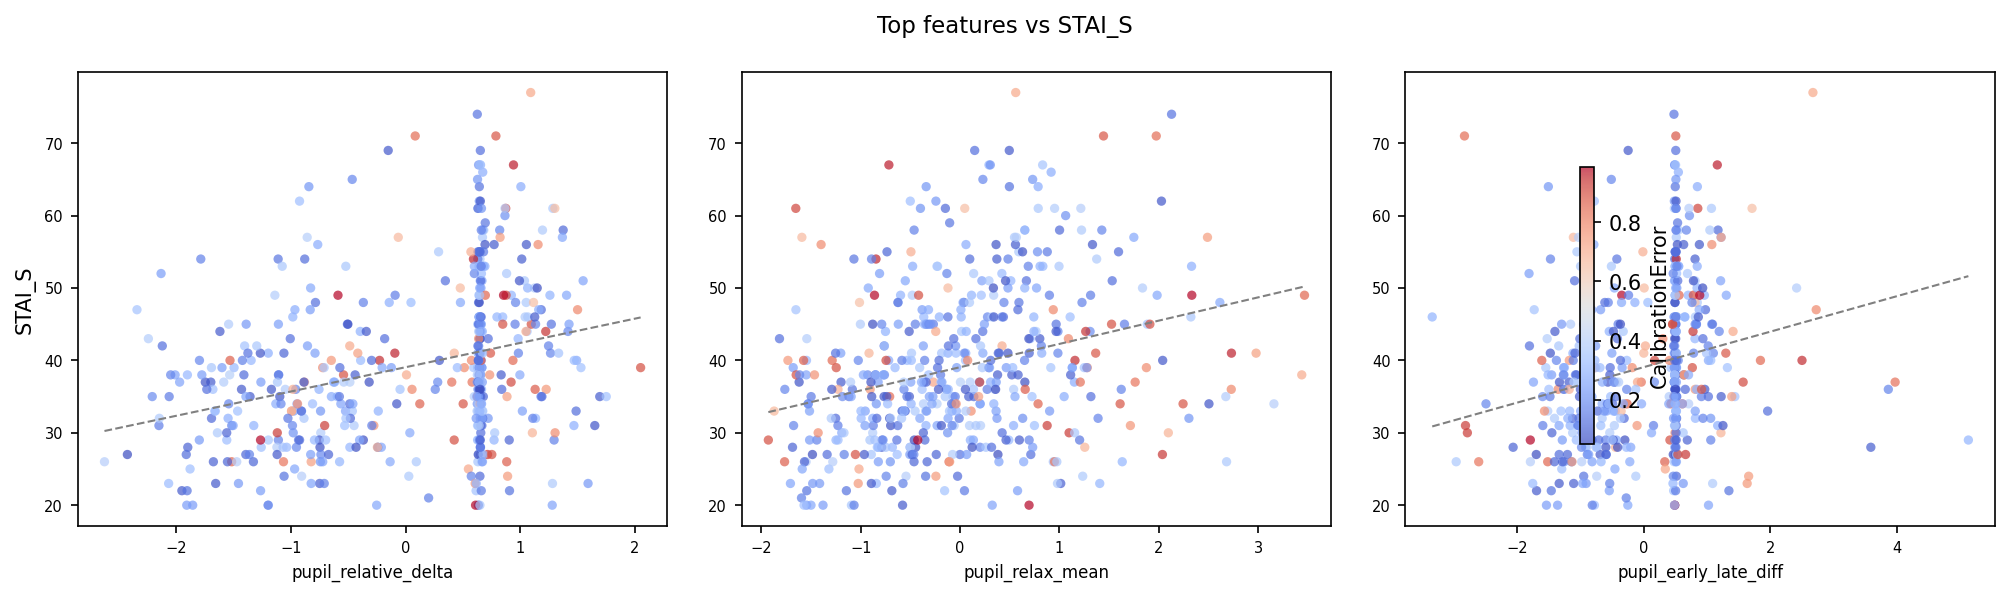
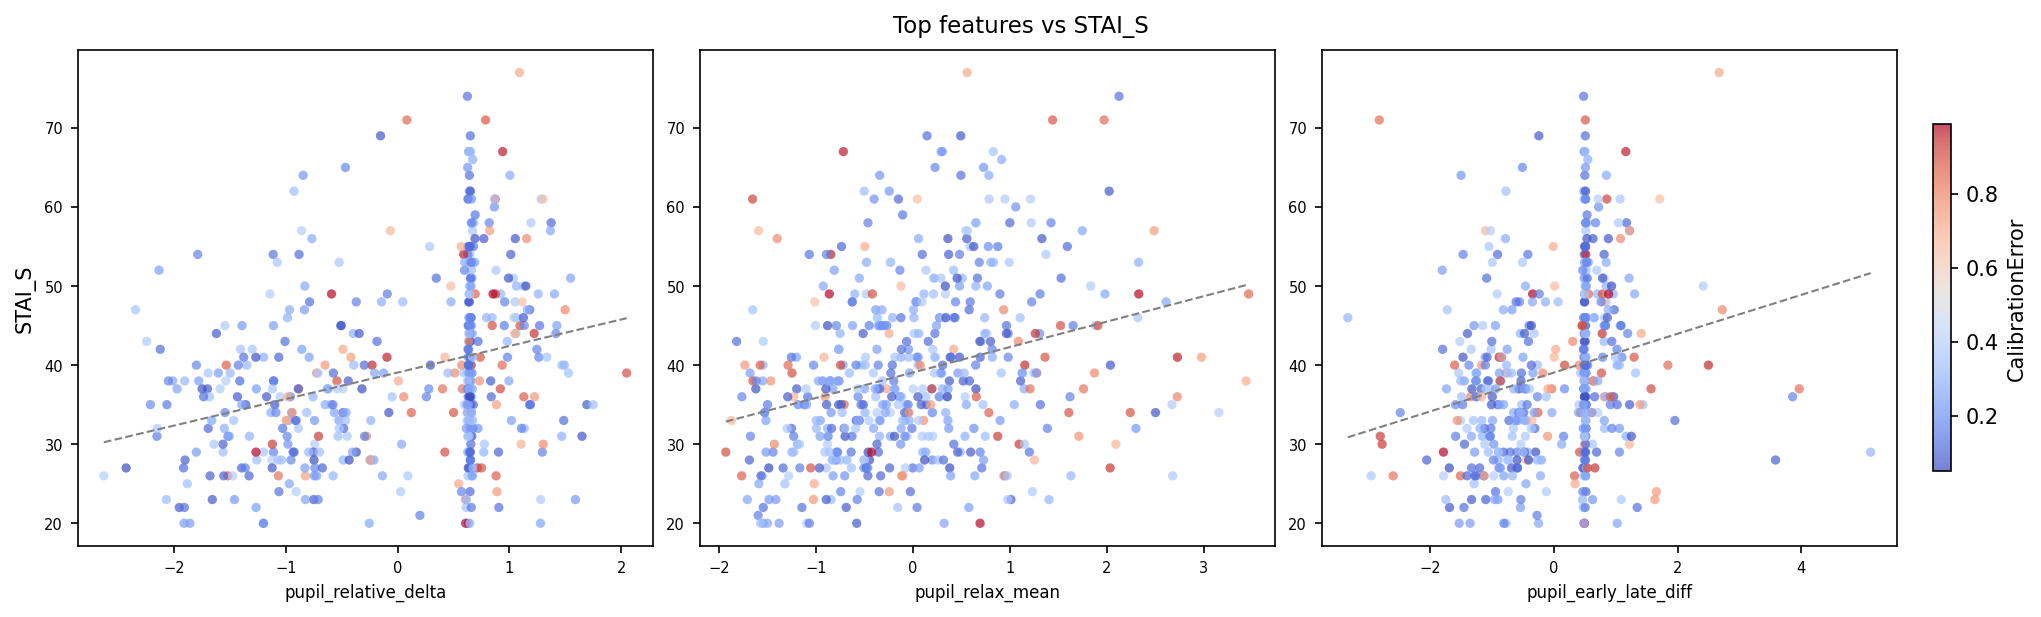
Corrected misplaced legend

diff --git a/src/plotting.py b/src/plotting.py
@@ -355,6 +355,7 @@ def plot_feature_scatter(
         fig, axes = plt.subplots(
             1, n,
             figsize=(figsize_per_panel[0] * n, figsize_per_panel[1]),
+            constrained_layout=True,
             squeeze=False,
         )
 
@@ -374,9 +375,8 @@ def plot_feature_scatter(
             ax.set_ylabel(target_col if idx == 0 else "")
             ax.tick_params(labelsize=7)
 
-        fig.colorbar(sc, ax=axes.ravel().tolist(), shrink=0.6, label=color_by.name)
+        fig.colorbar(sc, ax=axes.ravel().tolist(), shrink=0.7, pad=0.02, label=color_by.name)
         fig.suptitle(f"Top features vs {target_col}", fontsize=11)
-        fig.tight_layout()
         figs.append(fig)
     return figs
 
